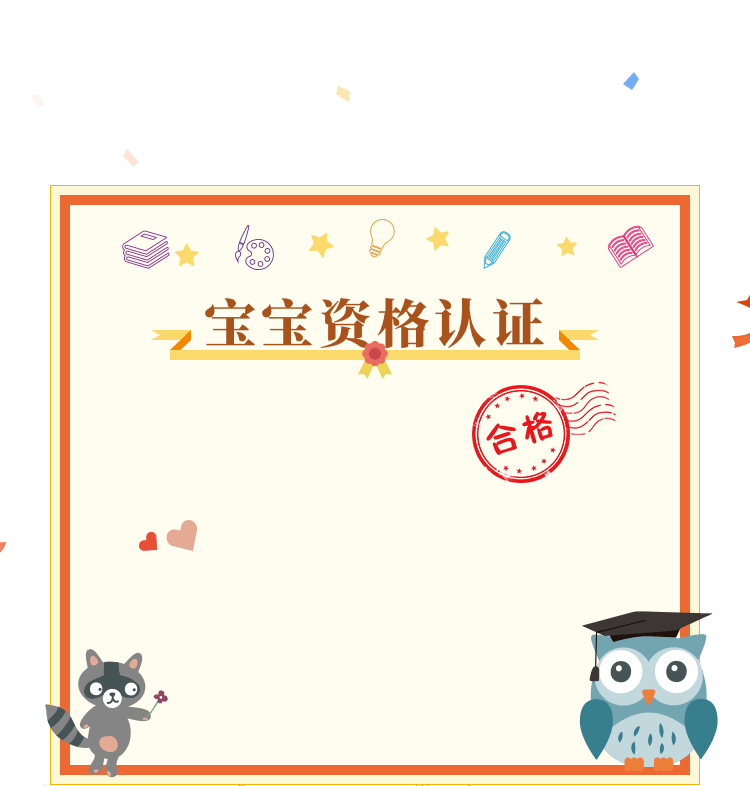
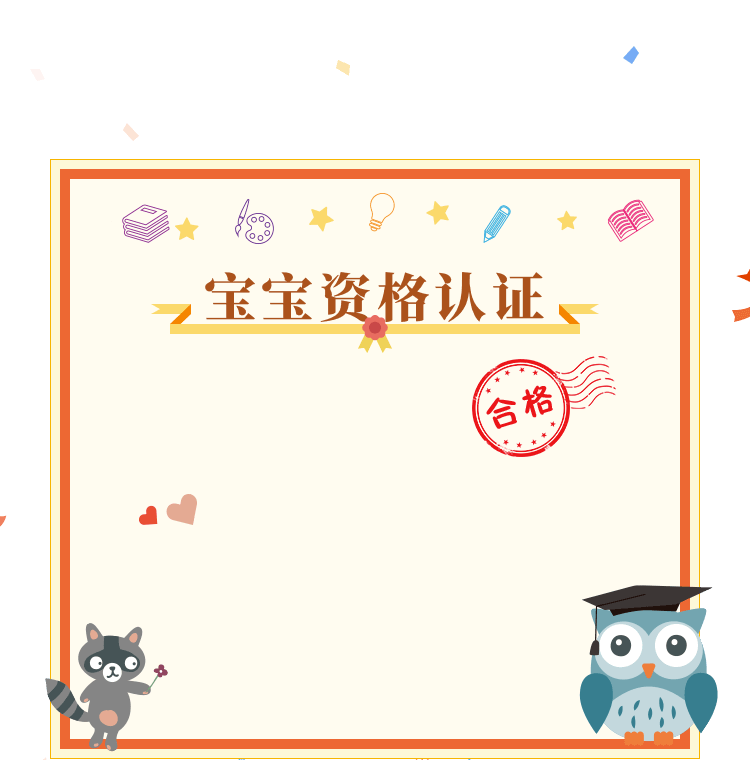
www

diff --git a/css/styles.less b/css/styles.less
@@ -671,7 +671,7 @@ html,body{
             >div{
                 &:nth-child(1){
                     width: 7.5rem;
-                    height:7.86rem;
+                    height:7.60rem;
                     background: url('../images/main_01.png') no-repeat;
                     background-size: cover;
                     position: relative; 
@@ -679,7 +679,7 @@ html,body{
                         display: inline-block;
                         &:nth-child(1){
                             position: absolute;
-                            top: .3rem;
+                            top: .1rem;
                             left: .17rem;
                             writing-mode: vertical-lr;
                             width: .4rem;
@@ -690,7 +690,7 @@ html,body{
                         }
                         &:nth-child(2){
                             position: absolute;
-                            top: .2rem;
+                            top: .1rem;
                             left: 0;
                             right: 0;
                             margin: auto;

diff --git a/css/styles.css b/css/styles.css
@@ -510,7 +510,7 @@ body section.main {
 html section.main > div:nth-child(1),
 body section.main > div:nth-child(1) {
   width: 7.5rem;
-  height: 7.86rem;
+  height: 7.60rem;
   background: url('../images/main_01.png') no-repeat;
   background-size: cover;
   position: relative;
@@ -522,7 +522,7 @@ body section.main > div:nth-child(1) > a {
 html section.main > div:nth-child(1) > a:nth-child(1),
 body section.main > div:nth-child(1) > a:nth-child(1) {
   position: absolute;
-  top: .3rem;
+  top: .1rem;
   left: .17rem;
   writing-mode: vertical-lr;
   width: .4rem;
@@ -533,7 +533,7 @@ body section.main > div:nth-child(1) > a:nth-child(1) {
 html section.main > div:nth-child(1) > a:nth-child(2),
 body section.main > div:nth-child(1) > a:nth-child(2) {
   position: absolute;
-  top: .2rem;
+  top: .1rem;
   left: 0;
   right: 0;
   margin: auto;

diff --git a/js/index.js b/js/index.js
@@ -121,7 +121,7 @@ $(document).ready(function () {
                     break;
                 case 2:
                     // 流量放心用
-                    $('#alink_cm').css('background-image','url(images/a_cm_fangxin.gif)').attr('href','http://open.weixin.qq.com/connect/oauth2/authorize?appid=wx7858699aca01b75f&redirect_uri=http%3A%2F%2Fserviceimg.bmcc.com.cn%2Fweixin%2Fredirect%2FdispenseRequest.action&response_type=code&scope=snsapi_base&state=cxfree#wechat_redirect')
+                    $('#alink_cm').css('background-image','url(images/a_cm_fangxin.gif)').attr('href',' https://mp.weixin.qq.com/s/K6W3CaZajWdDb4WgBxJUXQ')
                     break;
                 }
             // 异网移动王卡
